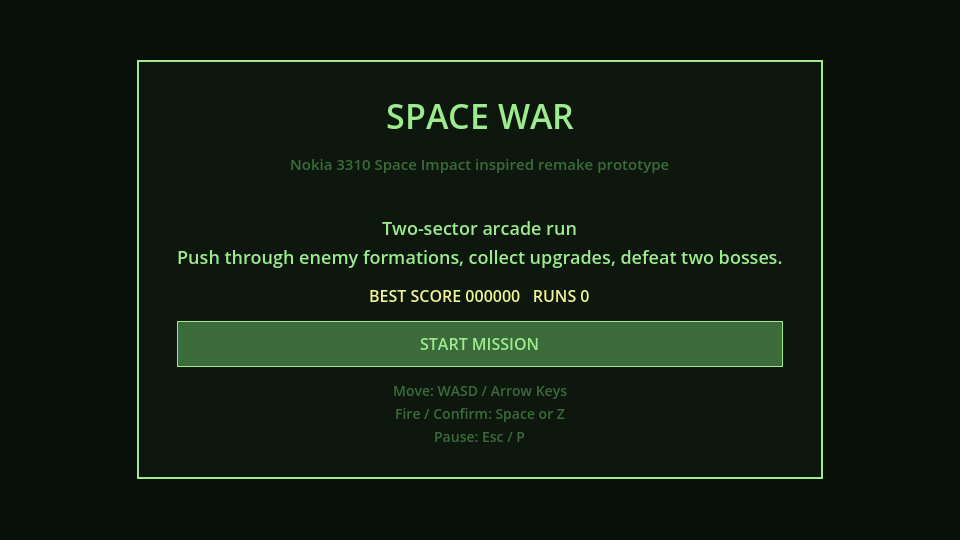
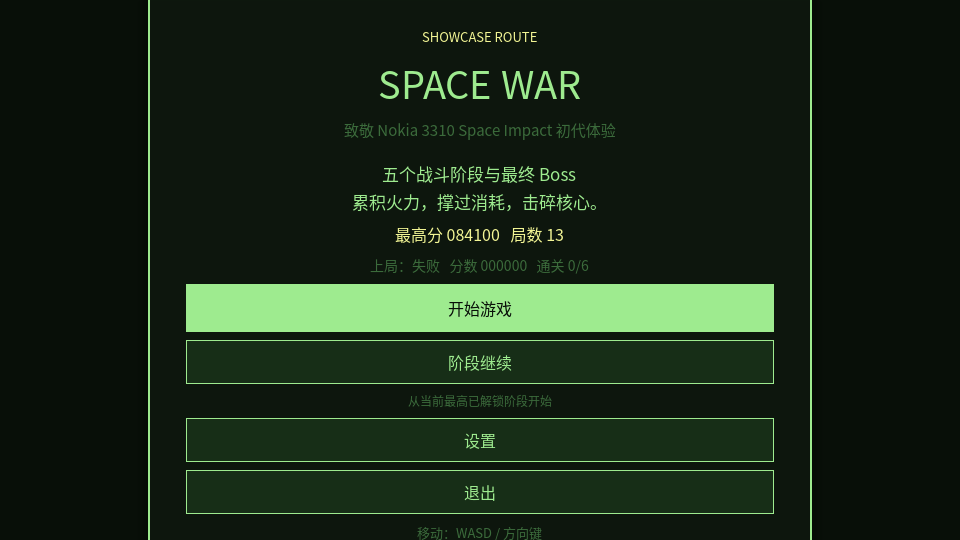
docs: refresh showcase media and remove stale readme images

Changed region(s): [[0.125, 0.0593, 0.875, 1.0], [0.1875, 0.4148, 0.8125, 0.8296], [0.2812, 0.2963, 0.6875, 0.4148]]

diff --git a/README.md b/README.md
@@ -25,19 +25,15 @@
 - 程序化音效与主菜单 / 战斗分离的复古音频氛围
 - 从阶段 0 到阶段 4 的完整设计 / 技术 / 测试文档
 
-## 截图
+## 当前展示素材
 
-### 主菜单
+仓库保留了用于生成当前主菜单、战斗和结算页截图的脚本：
 
-![Main Menu](docs/media/menu.png)
+```bash
+godot --path . --script res://tests/capture_screens.gd
+```
 
-### 战斗
-
-![Gameplay](docs/media/gameplay.png)
-
-### 结算
-
-![Result Screen](docs/media/result.png)
+生成结果会写入 `docs/media/`。README 不再直接内嵌历史截图，避免 GitHub 首页展示过时画面；公开发布或更新 GitHub 预览前，先重新运行截图脚本并复核生成图片。
 
 ## 玩家流程
 